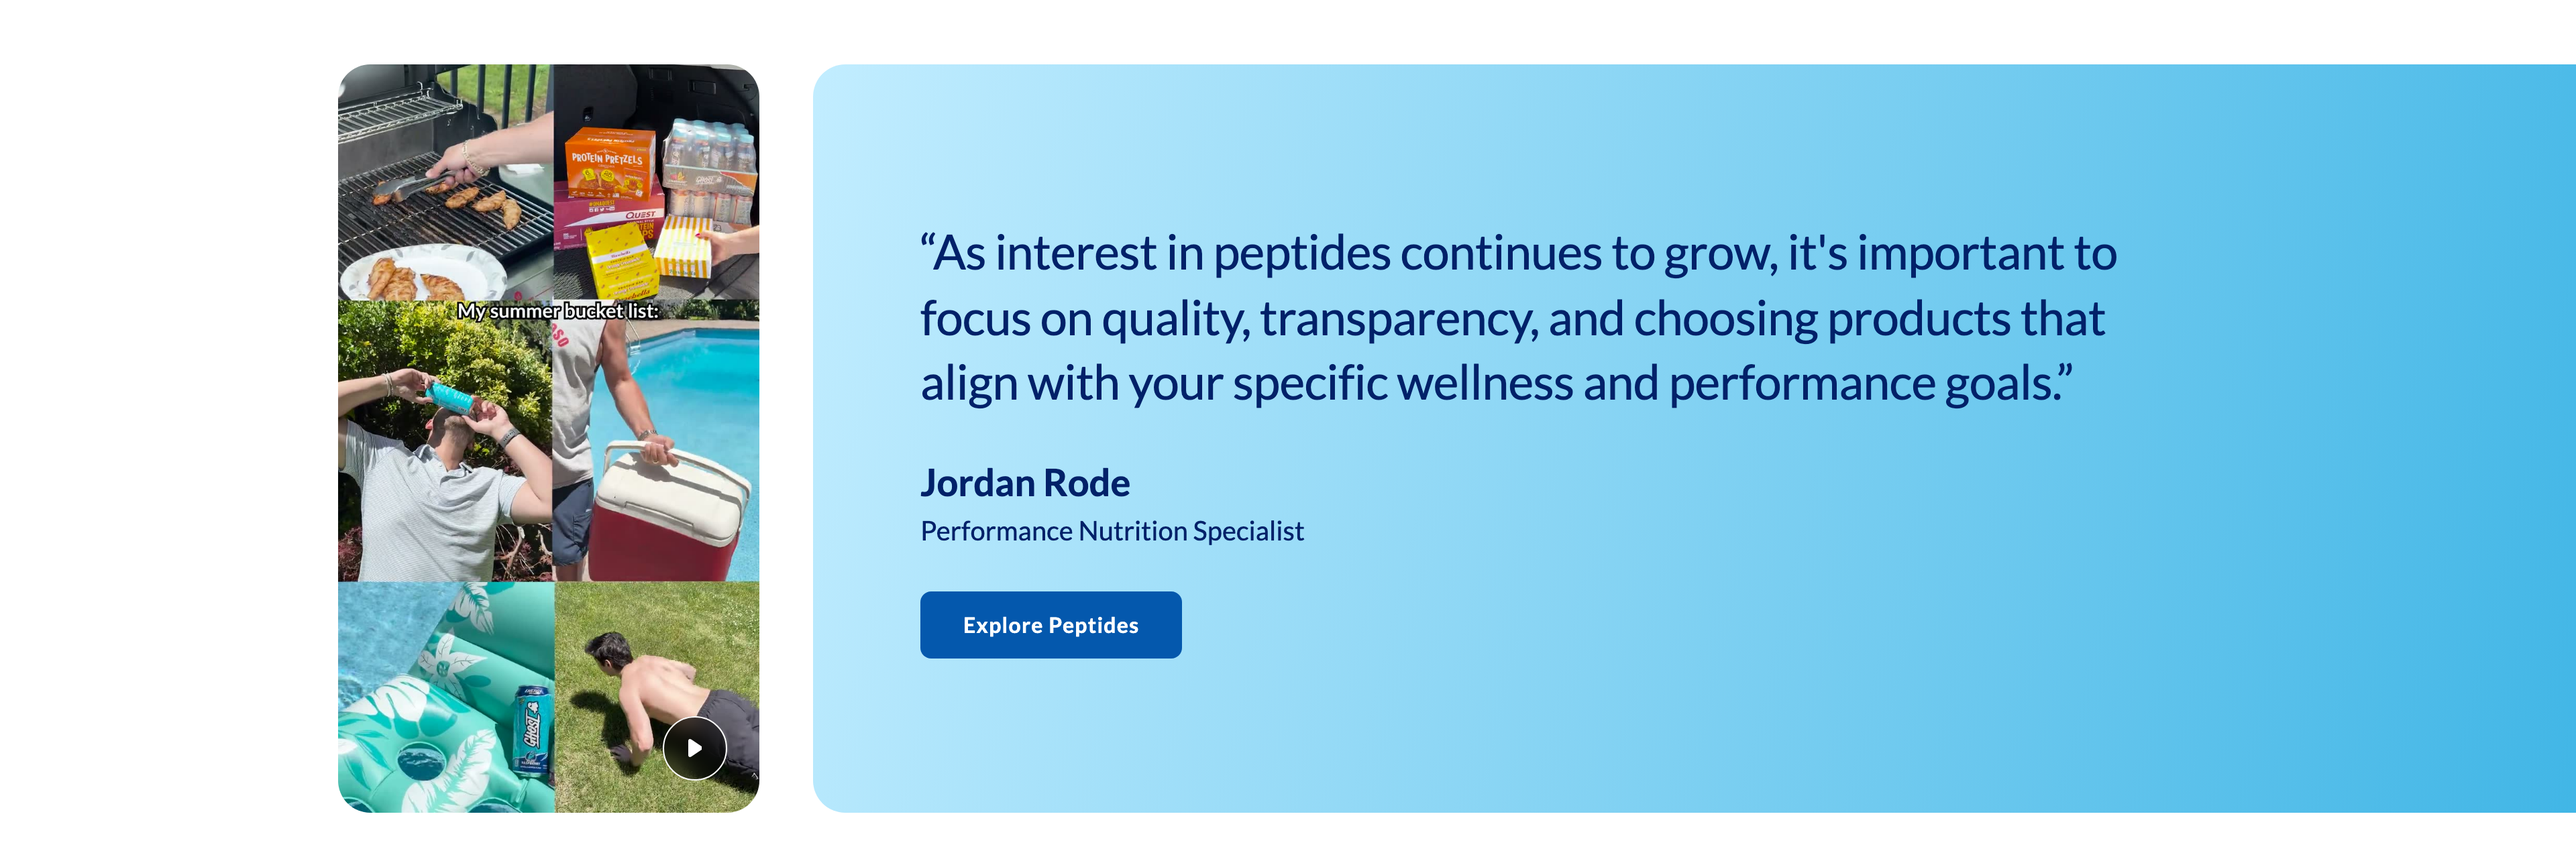
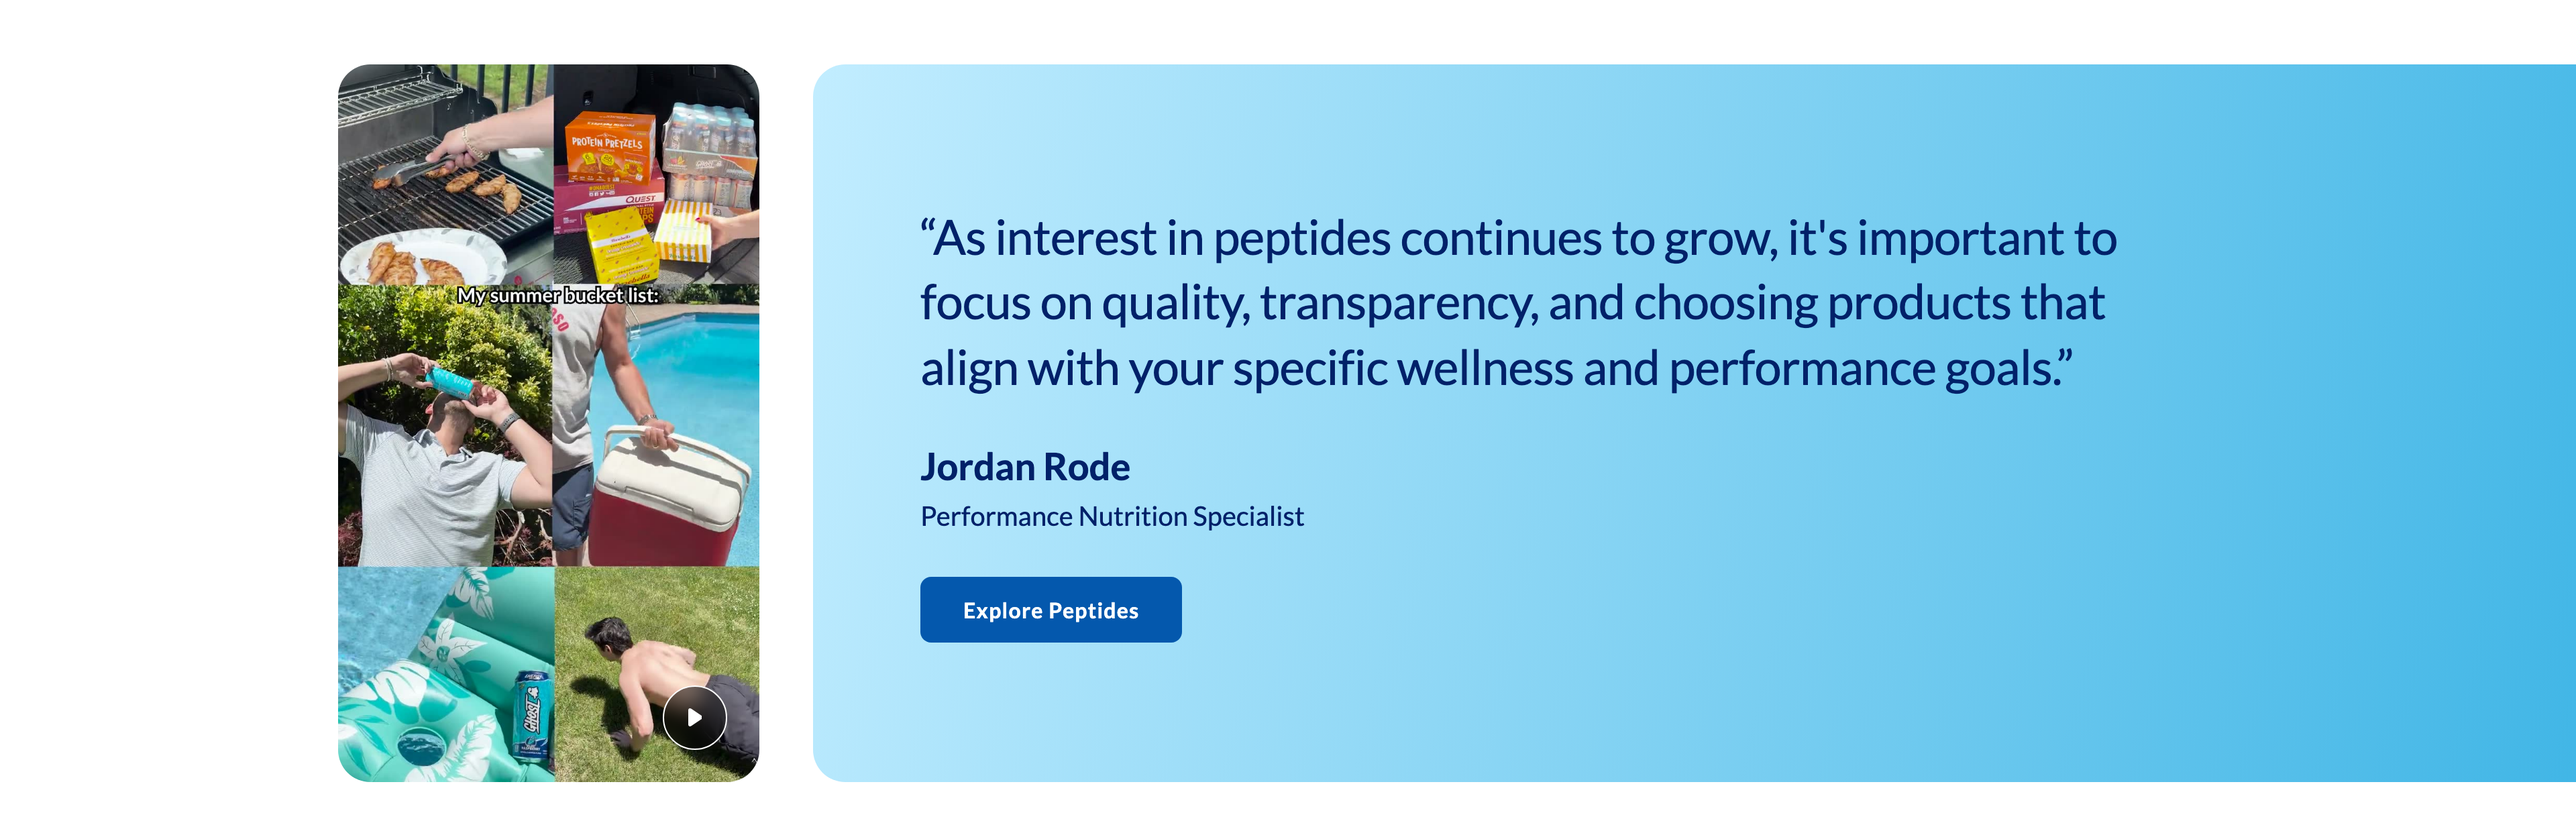
screenshots 2026-08-12T10:30:28.376Z

diff --git a/fsd-deviations.html b/fsd-deviations.html
@@ -553,12 +553,12 @@ ul.also li { break-inside: avoid; }
 <h2>expert-module</h2>
 <p class="chips"><span class="chip">Template 1</span></p>
 <p class="links"><a href="https://framework-labs-d2c.github.io/vitaminshoppe-public/expert-module/" target="_blank" rel="noopener">reference page, fields and sample content</a></p>
-<div class="compare" style="--compare-width:1512px" data-compare="{&quot;desktop&quot;:{&quot;design&quot;:&quot;./expert-module/figma-desktop.jpg&quot;,&quot;build&quot;:&quot;./expert-module/desktop-1512.png&quot;,&quot;width&quot;:1512,&quot;ratio&quot;:0.4226},&quot;mobile&quot;:{&quot;design&quot;:&quot;./expert-module/figma-mobile.jpg&quot;,&quot;build&quot;:&quot;./expert-module/mobile-375.png&quot;,&quot;width&quot;:375,&quot;ratio&quot;:1.8027}}">
+<div class="compare" style="--compare-width:1512px" data-compare="{&quot;desktop&quot;:{&quot;design&quot;:&quot;./expert-module/figma-desktop.jpg&quot;,&quot;build&quot;:&quot;./expert-module/desktop-1512.png&quot;,&quot;width&quot;:1512,&quot;ratio&quot;:0.4067},&quot;mobile&quot;:{&quot;design&quot;:&quot;./expert-module/figma-mobile.jpg&quot;,&quot;build&quot;:&quot;./expert-module/mobile-375.png&quot;,&quot;width&quot;:375,&quot;ratio&quot;:1.8027}}">
   <div class="compare-bar"><button type="button" data-view="desktop" class="on">Desktop</button><button type="button" data-view="mobile">Mobile</button><span class="rule"></span>
     <button type="button" data-fade>Fade</button><button type="button" data-actual>1:1</button>
     <span class="hint">drag to wipe · arrow keys to nudge</span></div>
   <div class="compare-stage" data-stage>
-    <div class="compare-frame" data-frame style="--p:50;aspect-ratio:1/0.4226" role="slider" tabindex="0"
+    <div class="compare-frame" data-frame style="--p:50;aspect-ratio:1/0.4067" role="slider" tabindex="0"
       aria-label="Figma design against the captured build" aria-valuemin="0" aria-valuemax="100" aria-valuenow="50">
       <img data-design loading="lazy" src="./expert-module/figma-desktop.jpg" alt="Figma design, desktop" />
       <div class="compare-build"><img data-build loading="lazy" src="./expert-module/desktop-1512.png" alt="Captured build, desktop" /></div>

diff --git a/expert-module/index.html b/expert-module/index.html
@@ -147,12 +147,12 @@ pre { background: var(--surface); border: 1px solid var(--rule); border-radius: 
 
 <section id="screenshots"><p class="eyebrow">02 — Screenshots</p><h2>How it renders</h2>
 <p>Wipe the handle across the design to find where the build drifts from it. The Figma frame and the capture are exported at the same width, so anything that moves under the handle is a real difference. Every width is below as a plain capture.</p>
-<div class="compare" style="--compare-width:1512px" data-compare="{&quot;desktop&quot;:{&quot;design&quot;:&quot;./figma-desktop.jpg&quot;,&quot;build&quot;:&quot;./desktop-1512.png&quot;,&quot;width&quot;:1512,&quot;ratio&quot;:0.4226},&quot;mobile&quot;:{&quot;design&quot;:&quot;./figma-mobile.jpg&quot;,&quot;build&quot;:&quot;./mobile-375.png&quot;,&quot;width&quot;:375,&quot;ratio&quot;:1.8027}}">
+<div class="compare" style="--compare-width:1512px" data-compare="{&quot;desktop&quot;:{&quot;design&quot;:&quot;./figma-desktop.jpg&quot;,&quot;build&quot;:&quot;./desktop-1512.png&quot;,&quot;width&quot;:1512,&quot;ratio&quot;:0.4067},&quot;mobile&quot;:{&quot;design&quot;:&quot;./figma-mobile.jpg&quot;,&quot;build&quot;:&quot;./mobile-375.png&quot;,&quot;width&quot;:375,&quot;ratio&quot;:1.8027}}">
   <div class="compare-bar"><button type="button" data-view="desktop" class="on">Desktop</button><button type="button" data-view="mobile">Mobile</button><span class="rule"></span>
     <button type="button" data-fade>Fade</button><button type="button" data-actual>1:1</button>
     <span class="hint">drag to wipe · arrow keys to nudge</span></div>
   <div class="compare-stage" data-stage>
-    <div class="compare-frame" data-frame style="--p:50;aspect-ratio:1/0.4226" role="slider" tabindex="0"
+    <div class="compare-frame" data-frame style="--p:50;aspect-ratio:1/0.4067" role="slider" tabindex="0"
       aria-label="Figma design against the captured build" aria-valuemin="0" aria-valuemax="100" aria-valuenow="50">
       <img data-design loading="lazy" src="./figma-desktop.jpg" alt="Figma design, desktop" />
       <div class="compare-build"><img data-build loading="lazy" src="./desktop-1512.png" alt="Captured build, desktop" /></div>
